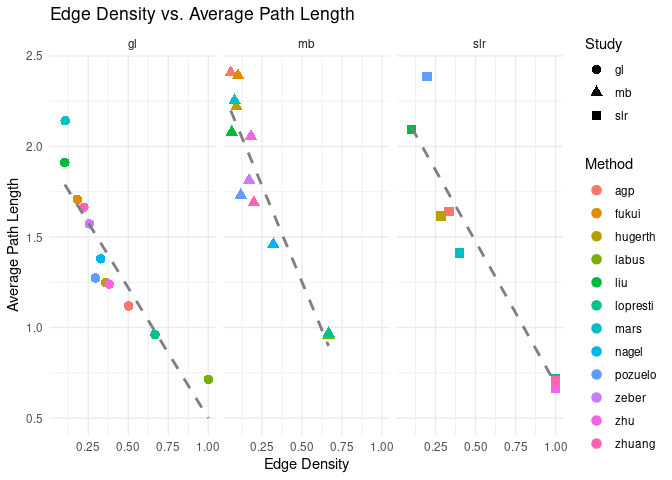
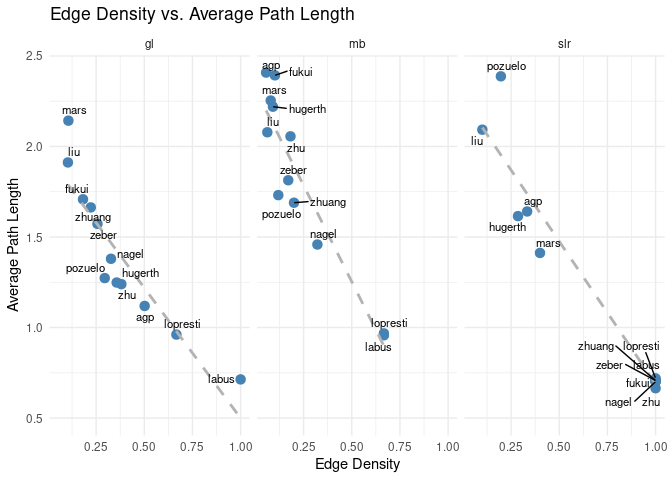
updating summary single network analysis

diff --git a/docs/meta-analysis/single-network-analysis/meta_analysis-single-network-order.md b/docs/meta-analysis/single-network-analysis/meta_analysis-single-network-order.md
@@ -19,6 +19,7 @@ library(igraph)
 library(VennDiagram)
 library(NetCoMi)
 library(reshape2)
+library(ggrepel)
 ```
 
 ------------------------------------------------------------------------
@@ -90,7 +91,7 @@ library(reshape2)
 
 ### 3.3.3. Hubs
 
-![](../../../outputs/single-network-analysis/plots/Order/global-prop-slr-1.png)<!-- -->
+![](../../../outputs/single-network-analysis/plots/Order/heatmaps-1.png)<!-- -->
 
 | Taxon                               | HubCount |
 |:------------------------------------|---------:|
